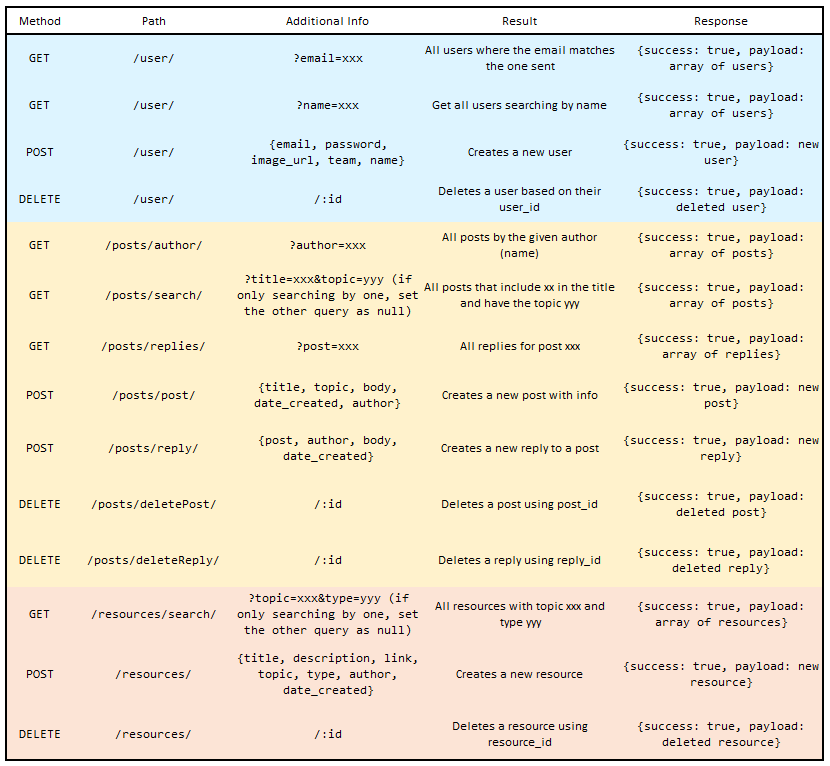
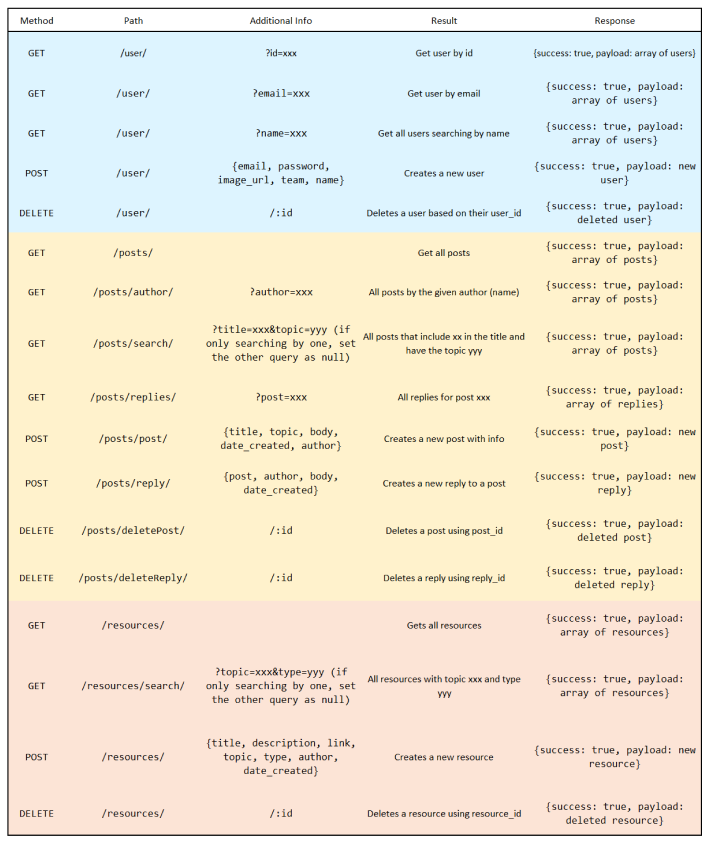
added new routes

diff --git a/routes/userRoutes.js b/routes/userRoutes.js
@@ -4,11 +4,12 @@ const userRouter = express.Router();
 import {
   getUserByEmail,
   getUserByName,
+  getUserById,
   newUser,
   deleteUser,
 } from "../models/userModels.js";
 
-// Get users by email
+// Get users by email, name or id
 userRouter.get("/", async (req, res) => {
   if (req.query.email != undefined) {
     try {
@@ -21,6 +22,14 @@ userRouter.get("/", async (req, res) => {
   } else if (req.query.name != undefined) {
     try {
       const result = await getUserByName(req.query.name);
+      res.json({ success: true, payload: result });
+    } catch (error) {
+      console.log(error);
+      res.json({ success: false, payload: "error" });
+    }
+  } else if (req.query.id != undefined) {
+    try {
+      const result = await getUserById(req.query.id);
       res.json({ success: true, payload: result });
     } catch (error) {
       console.log(error);

diff --git a/routes/postsRoutes.js b/routes/postsRoutes.js
@@ -2,6 +2,7 @@ import express from "express";
 const postsRouter = express.Router();
 
 import {
+  getAllPosts,
   getPostsByAuthor,
   getPostsBySearch,
   getRepliesByPost,
@@ -10,6 +11,17 @@ import {
   deletePost,
   deleteReply,
 } from "../models/postsModels.js";
+
+// Get all posts
+postsRouter.get("/", async (req, res) => {
+  try {
+    const result = await getAllPosts();
+    res.json({ success: true, payload: result });
+  } catch (error) {
+    console.log(error);
+    res.json({ success: false, payload: "error" });
+  }
+});
 
 // Get posts by author
 postsRouter.get("/author", async (req, res) => {

diff --git a/routes/resourcesRoutes.js b/routes/resourcesRoutes.js
@@ -2,10 +2,22 @@ import express from "express";
 const resourcesRouter = express.Router();
 
 import {
+  getAllResources,
   getResources,
   createNewResource,
   deleteResource,
 } from "../models/resourcesModels.js";
+
+//Get all resources
+resourcesRouter.get("/", async (req, res) => {
+  try {
+    const result = await getAllResources();
+    res.json({ success: true, payload: result });
+  } catch (error) {
+    console.log(error);
+    res.json({ success: false, payload: "error" });
+  }
+});
 
 // Get resouces by topic and type
 resourcesRouter.get("/search", async (req, res) => {

diff --git a/models/resourcesModels.js b/models/resourcesModels.js
@@ -1,5 +1,12 @@
 import { pool } from "../database/index.js";
 
+//Get all resources
+async function getAllResources() {
+  const results = await pool.query(`SELECT ^ FROM resources;`);
+  const rows = results.rows;
+  return rows;
+}
+
 // Get resources by searching using topic and type
 async function getResources(topic, type) {
   if (type != null && topic == null) {
@@ -51,4 +58,4 @@ async function deleteResource(id) {
   return rows;
 }
 
-export { getResources, createNewResource, deleteResource };
+export { getAllResources, getResources, createNewResource, deleteResource };

diff --git a/models/userModels.js b/models/userModels.js
@@ -20,6 +20,16 @@ async function getUserByName(name) {
   return rows;
 }
 
+async function getUserById(id) {
+  const results = await pool.query(
+    `SELECT * FROM users
+    WHERE user_id = $1`,
+    [id]
+  );
+  const rows = results.rows[0];
+  return rows;
+}
+
 async function newUser(body) {
   const results = await pool.query(
     `INSERT INTO users
@@ -54,4 +64,4 @@ async function deleteUser(user_id) {
   return rows;
 }
 
-export { getUserByEmail, getUserByName, newUser, deleteUser };
+export { getUserByEmail, getUserByName, getUserById, newUser, deleteUser };

diff --git a/models/postsModels.js b/models/postsModels.js
@@ -1,5 +1,12 @@
 import { pool } from "../database/index.js";
 
+// Get all posts
+async function getAllPosts() {
+  const results = await pool.query(`SELECT * FROM posts;`);
+  const rows = results.rows;
+  return rows;
+}
+
 // Get posts by author
 async function getPostsByAuthor(name) {
   const results = await pool.query(
@@ -102,6 +109,7 @@ async function deleteReply(id) {
 }
 
 export {
+  getAllPosts,
   getPostsByAuthor,
   getPostsBySearch,
   getRepliesByPost,
